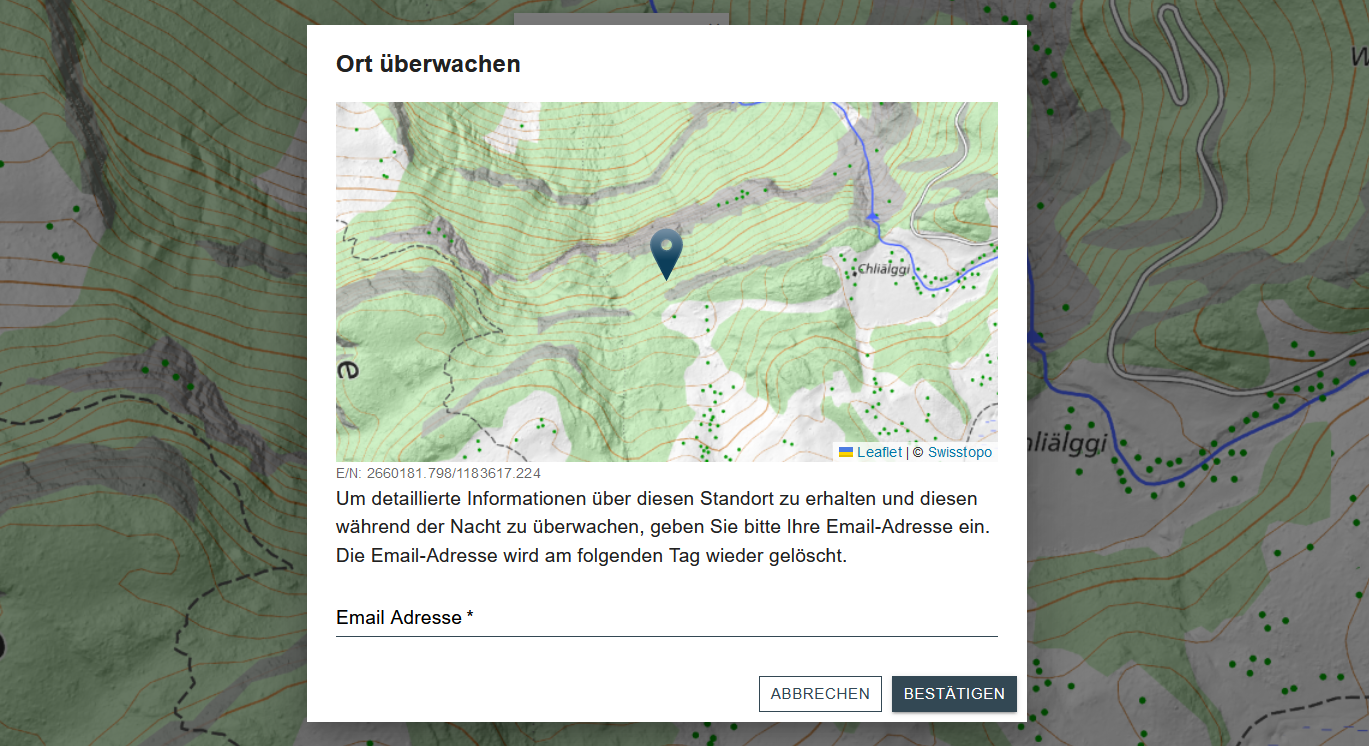
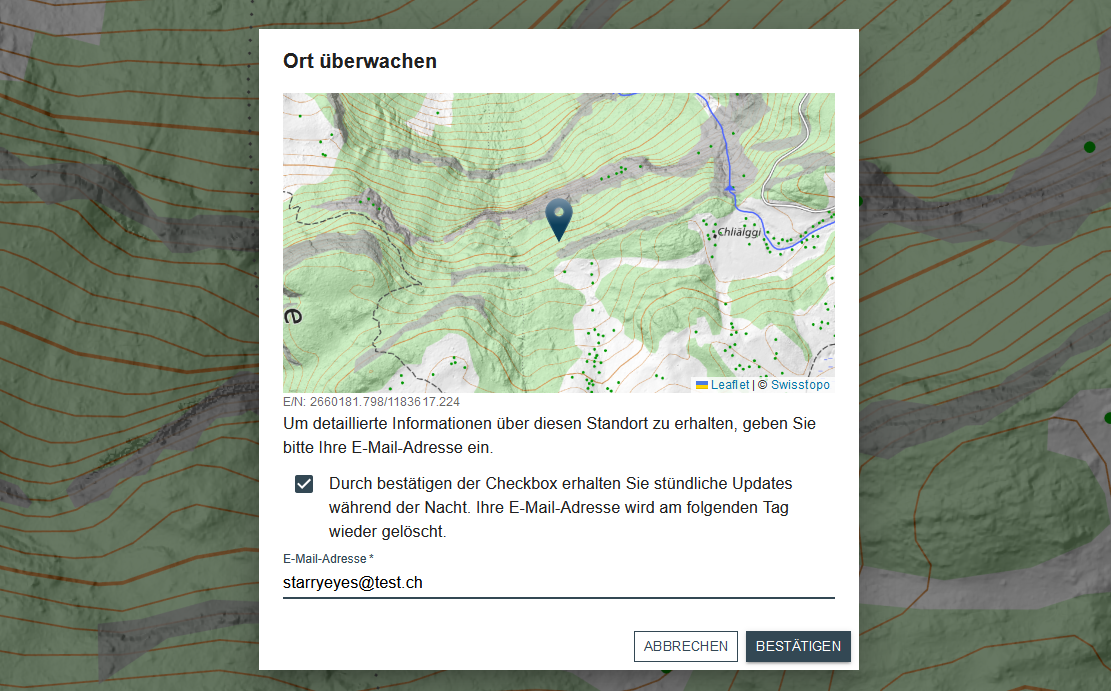
Anpassungen Frontend

diff --git a/frontend/src/PopUp/FormDialog.js b/frontend/src/PopUp/FormDialog.js
@@ -1,6 +1,7 @@
 import React, { useState } from 'react';
+import '../App.css';
 import {MapContainer, WMSTileLayer, Marker} from "react-leaflet";
-import {Button, TextField, Dialog, DialogActions, DialogContent, DialogContentText, DialogTitle, CircularProgress} from'@mui/material';
+import {Button, TextField, Dialog, DialogActions, DialogContent, DialogContentText, DialogTitle, CircularProgress, Checkbox} from'@mui/material';
 import MarkerIcon from '../PopUp/MarkerIcon.js';
 
 export default function FormDialog({ open, handleClose, clickPosition, lv95Coords, setShowSuccessSnackbar }) {
@@ -80,30 +81,36 @@ export default function FormDialog({ open, handleClose, clickPosition, lv95Coord
             E/N: {lv95Coords ? parseFloat(lv95Coords.easting).toFixed(3) : 'Loading...'}
             /{lv95Coords ? parseFloat(lv95Coords.northing).toFixed(3) : 'Loading...'}
           </DialogContentText>
-          Um detaillierte Informationen über diesen Standort zu erhalten und diesen während der Nacht zu überwachen, geben Sie bitte Ihre Email-Adresse ein. Die Email-Adresse wird am folgenden Tag wieder gelöscht.
+          Um detaillierte Informationen über diesen Standort zu erhalten, geben Sie bitte Ihre E-Mail-Adresse ein.
+          <div style={{ position: 'relative' }}>
+            <div style={{ display: 'flex', alignItems: 'flex-start' }}>
+              <Checkbox className='Checkbox' style={{ marginTop: 4 }} disabled={true}/>
+              <DialogContentText style={{ padding: 0, paddingTop: 12, paddingLeft: 4 }}>
+                Durch bestätigen der Checkbox erhalten Sie stündliche Updates während der Nacht. Ihre E-Mail-Adresse wird am folgenden Tag wieder gelöscht.
+              </DialogContentText>
+            </div>
+            <div style={{ position: 'absolute', bottom: 0, left: 70, transform: 'rotate(-5deg)', transformOrigin: 'left bottom', whiteSpace: 'nowrap', fontWeight: 'bold', fontSize: '25px', color: 'red' }}>
+              -- Funktion noch nicht verfügbar --
+            </div>
+          </div>
           <TextField
             autoFocus
             required
             margin="dense"
             id="name"
             name="email"
-            label="Email Adresse"
+            label="E-Mail-Adresse"
             type="email"
             fullWidth
             variant="standard"
+            InputLabelProps={{
+              style: {color: '#334854'}
+            }}
             sx={{
-              '& .MuiInputLabel-root': {
-                color: 'black'
-              },
-              '& .MuiInputBase-root': {
-                  color: '#334854',
-                  '&:before': {
-                      borderBottomColor: '#334854',
-                  },
-                  '&:after': {
-                      borderBottomColor: '#334854'
-                  },
-              },
+              '& .MuiInputBase-root': {color: 'black',
+                '&:before': {borderBottomColor: '#334854'},
+                '&:after': {borderBottomColor: '#334854'}
+              }
             }}
           />
         </DialogContent>

diff --git a/frontend/src/map.js b/frontend/src/map.js
@@ -167,7 +167,7 @@ function App({ activeItems, sliderValue, setMenuOpen, MenuOpen }) {
 
                     {clickPosition && (
                         <Marker position={clickPosition} icon={MarkerIcon} eventHandlers={{ click: handleMarkerClick }}>
-                            <Popup className="popupCustom" borderRadius={0}>
+                            <Popup className="popupCustom" borderRadius={0} autoPan={false}>
                                 <PopupContent
                                 sunTimes={sunTimes} 
                                 clickPosition={clickPosition}

diff --git a/frontend/src/SuccessSnackbar.js b/frontend/src/SuccessSnackbar.js
@@ -6,8 +6,8 @@ export default function SuccessSnackbar({ open }) {
     <Snackbar
       open={open}
       autoHideDuration={2000}
-      onClose={() => {}} // Platzhalterfunktion, da Snackbar automatisch verschwindet
-      message="Standort abonniert"
+      onClose={() => {}}
+      message="Emailadresse übermittelt"
       anchorOrigin={{ vertical: 'bottom', horizontal: 'center' }}
       TransitionComponent={Slide}
       ContentProps={{
